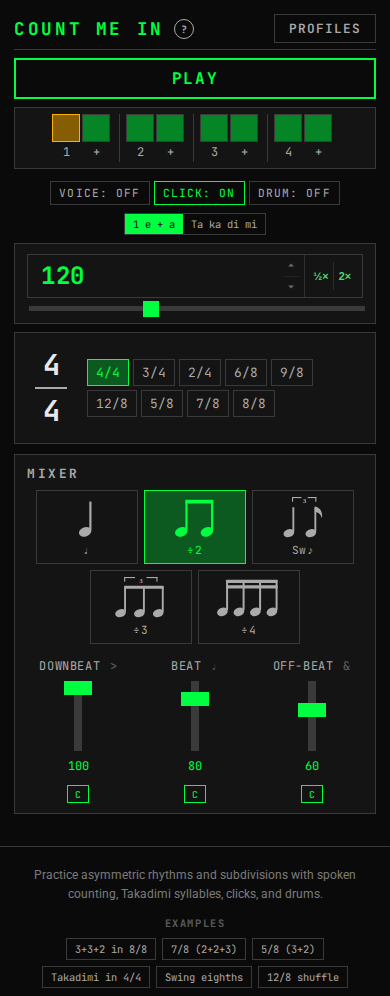
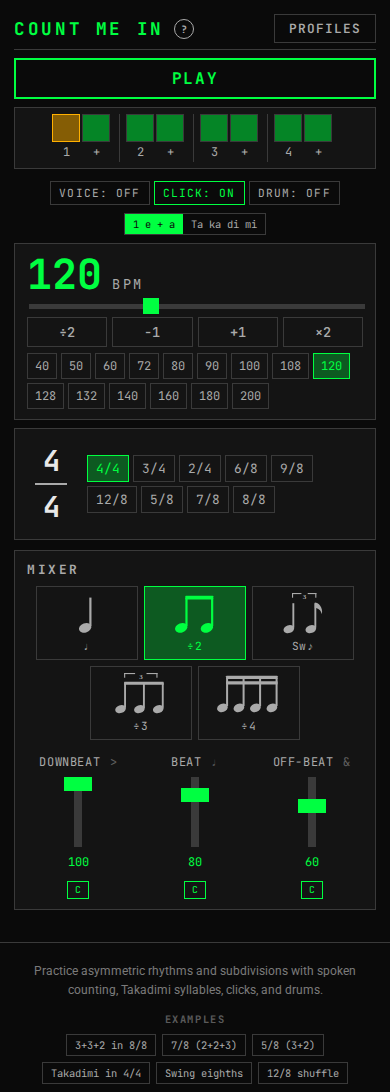
fix(count): restore first-class BPM control with visible presets (#65)
* fix(count): restore first-class BPM control with visible presets

Shared BpmInput buried common tempos in a dropdown and broke Count’s
metronome CUJ. Bring back always-visible slider, ±1/÷2/×2, and preset chips,
and guard against re-adopting the portable toolbar control.

* test(visual): refresh count baselines for first-class BPM control

- count-desktop.png — T2.1 intentional UI: restore always-visible presets/±1/÷2×2
- count-mobile.png — T2.1 same; taller viewport from expanded tempo chrome

---------

diff --git a/src/count/styles/pulse.css b/src/count/styles/pulse.css
@@ -171,39 +171,53 @@ body {
   gap: 8px;
 }
 
-/* Shared BpmInput themed to the pulse terminal aesthetic via its CSS tokens. */
-.count-bpm-input .shared-bpm-shell {
-  --bpm-bg: var(--pulse-surface);
-  --bpm-border: var(--pulse-border);
-  --bpm-text: var(--pulse-accent);
-  --bpm-muted: var(--pulse-text-dim);
-  --bpm-focus: var(--pulse-accent);
-  /* The shared inset ring token resolves against the light theme at :root, so
-     re-compose it here with the pulse accent. */
-  --bpm-focus-ring: inset 0 0 0 2px
-    color-mix(in srgb, var(--pulse-accent) 55%, transparent);
-  --bpm-hover: var(--pulse-accent-dim);
-  --bpm-shell-radius: 0;
-  --music-timing-value-font-size: 1.5rem;
-  font-family: var(--pulse-mono);
+.pulse-bpm-top {
+  display: flex;
+  align-items: baseline;
+  gap: 10px;
 }
 
-.count-bpm-dropdown {
-  --labs-popover-bg: var(--pulse-surface);
-  --labs-popover-border: 1px solid var(--pulse-border);
-  --labs-popover-radius: 0;
-  --labs-popover-shadow: 0 8px 24px rgba(0, 0, 0, 0.6);
-  --bpm-dropdown-bg: var(--pulse-surface);
-  --bpm-dropdown-border: var(--pulse-border);
-  --bpm-text: var(--pulse-text);
-  --bpm-muted: var(--pulse-text-dim);
-  --bpm-focus: var(--pulse-accent);
-  --bpm-chip-radius: 0;
+.pulse-bpm-display {
   font-family: var(--pulse-mono);
+  font-size: 2.6rem;
+  font-weight: 700;
+  color: var(--pulse-accent);
+  line-height: 1;
+  background: none;
+  border: none;
+  cursor: text;
+  padding: 0;
 }
 
-.count-bpm-dropdown .shared-bpm-slider-wrap {
-  border-radius: 0;
+.pulse-bpm-input {
+  font-family: var(--pulse-mono);
+  font-size: 2.6rem;
+  font-weight: 700;
+  color: var(--pulse-accent);
+  background: var(--pulse-bg);
+  border: 1px solid var(--pulse-accent);
+  width: 100px;
+  padding: 0 6px;
+  line-height: 1;
+}
+.pulse-bpm-input:focus-visible {
+  outline: 2px solid var(--pulse-accent);
+  outline-offset: 2px;
+}
+.pulse-bpm-input::-webkit-inner-spin-button,
+.pulse-bpm-input::-webkit-outer-spin-button {
+  -webkit-appearance: none;
+  margin: 0;
+}
+.pulse-bpm-input {
+  -moz-appearance: textfield;
+}
+
+.pulse-bpm-label {
+  font-family: var(--pulse-mono);
+  font-size: 0.85rem;
+  letter-spacing: 0.2em;
+  color: var(--pulse-text-dim);
 }
 
 .pulse-tempo-marking {
@@ -243,6 +257,53 @@ body {
   background: var(--pulse-accent);
   border: none;
   cursor: pointer;
+}
+
+.pulse-bpm-actions {
+  display: flex;
+  gap: 5px;
+}
+
+.pulse-bpm-btn {
+  font-family: var(--pulse-mono);
+  font-size: 0.85rem;
+  font-weight: 500;
+  padding: 5px 12px;
+  border: 1px solid var(--pulse-border);
+  background: transparent;
+  color: var(--pulse-text-dim);
+  cursor: pointer;
+  flex: 1;
+  text-align: center;
+}
+.pulse-bpm-btn:hover {
+  border-color: var(--pulse-accent);
+  color: var(--pulse-accent);
+}
+
+.pulse-bpm-presets {
+  display: flex;
+  flex-wrap: wrap;
+  gap: 4px;
+}
+
+.pulse-bpm-preset {
+  font-family: var(--pulse-mono);
+  font-size: 0.75rem;
+  padding: 4px 7px;
+  border: 1px solid var(--pulse-border);
+  background: transparent;
+  color: var(--pulse-text-dim);
+  cursor: pointer;
+}
+.pulse-bpm-preset:hover {
+  border-color: var(--pulse-accent);
+  color: var(--pulse-accent);
+}
+.pulse-bpm-preset.is-active {
+  border-color: var(--pulse-accent);
+  background: var(--pulse-accent-dim);
+  color: var(--pulse-accent);
 }
 
 /* ---- Time Signature ---- */

diff --git a/src/count/components/BpmControl.tsx b/src/count/components/BpmControl.tsx
@@ -1,5 +1,5 @@
-import { useCallback } from 'react';
-import BpmInput from '../../shared/components/music/BpmInput';
+import { useState, useCallback, useRef, useEffect } from 'react';
+import { COMMON_BPMS } from '../../shared/music/musicInputConstants';
 
 interface BpmControlProps {
   bpm: number;
@@ -8,6 +8,36 @@ interface BpmControlProps {
 
 const MIN_BPM = 20;
 const MAX_BPM = 300;
+
+const REPEAT_DELAY = 400;
+const REPEAT_INTERVAL = 80;
+
+function useRepeatPress(callback: () => void) {
+  const timerRef = useRef<ReturnType<typeof setTimeout> | null>(null);
+  const intervalRef = useRef<ReturnType<typeof setInterval> | null>(null);
+  const cbRef = useRef(callback);
+  cbRef.current = callback;
+
+  const stop = useCallback(() => {
+    if (timerRef.current) { clearTimeout(timerRef.current); timerRef.current = null; }
+    if (intervalRef.current) { clearInterval(intervalRef.current); intervalRef.current = null; }
+  }, []);
+
+  useEffect(() => stop, [stop]);
+
+  const start = useCallback(() => {
+    stop();
+    timerRef.current = setTimeout(() => {
+      intervalRef.current = setInterval(() => cbRef.current(), REPEAT_INTERVAL);
+    }, REPEAT_DELAY);
+  }, [stop]);
+
+  return {
+    onPointerDown: start,
+    onPointerUp: stop,
+    onPointerLeave: stop,
+  };
+}
 
 const TEMPO_MARKINGS: Array<{ min: number; max: number; italian: string; english: string }> = [
   { min: 0,   max: 40,  italian: 'Larghissimo', english: 'Very broad' },
@@ -28,14 +58,16 @@ function getTempoMarking(bpm: number): { italian: string; english: string } {
 }
 
 function clamp(v: number) {
-  return Math.max(MIN_BPM, Math.min(MAX_BPM, Math.round(v)));
+  return Math.max(MIN_BPM, Math.min(MAX_BPM, Math.round(v * 10) / 10));
 }
 
-/**
- * Count's tempo panel — tempo-marking caption + shared BpmInput stepper, with an
- * always-visible slider for live tempo sweeps while practicing.
- */
 export function BpmControl({ bpm, onChange }: BpmControlProps) {
+  const [editing, setEditing] = useState(false);
+  const [editValue, setEditValue] = useState('');
+
+  const bpmRef = useRef(bpm);
+  bpmRef.current = bpm;
+
   const handleSlider = useCallback(
     (e: React.ChangeEvent<HTMLInputElement>) => {
       onChange(clamp(parseFloat(e.target.value)));
@@ -43,20 +75,52 @@ export function BpmControl({ bpm, onChange }: BpmControlProps) {
     [onChange],
   );
 
+  const decRepeat = useRepeatPress(useCallback(() => onChange(clamp(bpmRef.current - 1)), [onChange]));
+  const incRepeat = useRepeatPress(useCallback(() => onChange(clamp(bpmRef.current + 1)), [onChange]));
+
+  const startEdit = () => {
+    setEditValue(String(Math.round(bpm)));
+    setEditing(true);
+  };
+
+  const commitEdit = () => {
+    setEditing(false);
+    const parsed = parseFloat(editValue);
+    if (!isNaN(parsed)) onChange(clamp(parsed));
+  };
+
   return (
     <div className="pulse-bpm">
       <div className="pulse-tempo-marking" title={getTempoMarking(bpm).english}>
         {getTempoMarking(bpm).italian}
       </div>
-
-      <BpmInput
-        value={bpm}
-        onChange={(next) => onChange(clamp(next))}
-        min={MIN_BPM}
-        max={MAX_BPM}
-        className="count-bpm-input"
-        dropdownClassName="count-bpm-dropdown"
-      />
+      <div className="pulse-bpm-top">
+        {editing ? (
+          <input
+            className="pulse-bpm-input"
+            type="number"
+            value={editValue}
+            onChange={(e) => setEditValue(e.target.value)}
+            onBlur={commitEdit}
+            onKeyDown={(e) => e.key === 'Enter' && commitEdit()}
+            min={MIN_BPM}
+            max={MAX_BPM}
+            // eslint-disable-next-line jsx-a11y/no-autofocus
+            autoFocus
+            aria-label="BPM value"
+          />
+        ) : (
+          <button
+            className="pulse-bpm-display"
+            onClick={startEdit}
+            title="Click to type a BPM"
+            type="button"
+          >
+            {bpm.toFixed(0)}
+          </button>
+        )}
+        <span className="pulse-bpm-label">BPM</span>
+      </div>
 
       <input
         type="range"
@@ -68,6 +132,26 @@ export function BpmControl({ bpm, onChange }: BpmControlProps) {
         onChange={handleSlider}
         aria-label="BPM slider"
       />
+
+      <div className="pulse-bpm-actions">
+        <button className="pulse-bpm-btn" onClick={() => onChange(clamp(bpm / 2))} type="button" title="Halve BPM">÷2</button>
+        <button className="pulse-bpm-btn" onClick={() => onChange(clamp(bpm - 1))} {...decRepeat} type="button" title="Decrease by 1 (hold to repeat)">−1</button>
+        <button className="pulse-bpm-btn" onClick={() => onChange(clamp(bpm + 1))} {...incRepeat} type="button" title="Increase by 1 (hold to repeat)">+1</button>
+        <button className="pulse-bpm-btn" onClick={() => onChange(clamp(bpm * 2))} type="button" title="Double BPM">×2</button>
+      </div>
+
+      <div className="pulse-bpm-presets">
+        {COMMON_BPMS.map((v) => (
+          <button
+            key={v}
+            className={`pulse-bpm-preset ${bpm === v ? 'is-active' : ''}`}
+            onClick={() => onChange(v)}
+            type="button"
+          >
+            {v}
+          </button>
+        ))}
+      </div>
     </div>
   );
 }

diff --git a/src/count/components/BpmControl.firstClass.test.ts b/src/count/components/BpmControl.firstClass.test.ts
@@ -1,0 +1,23 @@
+import { readFileSync } from 'node:fs';
+import path from 'node:path';
+import { describe, expect, it } from 'vitest';
+
+/**
+ * Guard: Count's tempo surface is a first-class CUJ, not the portable BpmInput
+ * toolbar excerpt. See README § Intentional diversions and
+ * SHARED_UI_CONVENTIONS § First-class vs portable.
+ */
+describe('BpmControl first-class tempo surface', () => {
+  const source = readFileSync(path.join(__dirname, 'BpmControl.tsx'), 'utf8');
+
+  it('does not import shared BpmInput', () => {
+    expect(source).not.toMatch(/from ['"].*BpmInput['"]/);
+  });
+
+  it('keeps always-visible common BPM presets and nudge actions', () => {
+    expect(source).toMatch(/COMMON_BPMS/);
+    expect(source).toMatch(/pulse-bpm-presets/);
+    expect(source).toMatch(/÷2/);
+    expect(source).toMatch(/×2/);
+  });
+});

diff --git a/src/count/App.test.tsx b/src/count/App.test.tsx
@@ -127,8 +127,9 @@ describe('Count App engine wiring', () => {
     render(<App />);
     await startPlayback();
 
-    const bpmInput = screen.getByRole('textbox', { name: 'Tempo in BPM' });
-    fireEvent.focus(bpmInput);
+    // Count uses a first-class BPM control (display → edit), not shared BpmInput.
+    fireEvent.click(screen.getByTitle('Click to type a BPM'));
+    const bpmInput = screen.getByRole('spinbutton', { name: 'BPM value' });
     fireEvent.change(bpmInput, { target: { value: '95' } });
     fireEvent.keyDown(bpmInput, { key: 'Enter' });
 
@@ -137,6 +138,19 @@ describe('Count App engine wiring', () => {
       expect(tempoCalls.length).toBeGreaterThan(0);
       expect(tempoCalls[tempoCalls.length - 1].args).toEqual([95]);
     });
+  });
+
+  it('exposes always-visible common BPM presets (not a BpmInput dropdown)', async () => {
+    render(<App />);
+    await startPlayback();
+    // COMMON_BPMS chips must be in the document without opening a menu.
+    fireEvent.click(screen.getByRole('button', { name: '80' }));
+    await waitFor(() => {
+      const tempoCalls = callsFor('setTempo');
+      expect(tempoCalls.at(-1)?.args).toEqual([80]);
+    });
+    expect(screen.getByRole('button', { name: '÷2' })).toBeInTheDocument();
+    expect(screen.getByRole('slider', { name: 'BPM slider' })).toBeInTheDocument();
   });
 
   it('time-signature preset forwards to engine.setTimeSignature', async () => {

diff --git a/src/count/README.md b/src/count/README.md
@@ -9,9 +9,18 @@ Route: `/count/`.
 ## Features
 
 - **Subdivision selection** — pick a grid (quarters, eighths, triplets, sixteenths, etc.) and hear it mapped to a click track.
-- **Tempo slider** — audio-scheduled clicks stay tight via the shared playback scheduler.
+- **Tempo slider** — always-visible Count `BpmControl` (not compact shared `BpmInput`); audio-scheduled clicks stay tight via the shared playback scheduler.
 - **Pulse visualizer** — a styled beat ring under `styles/pulse.css` indicates the current subdivision; designed for peripheral-vision practice while playing an instrument.
 - **Shared transport** — reuses `src/shared/playback/` so tempo, play/pause, and suspension behavior match Beat and Piano.
+
+## Intentional diversions
+
+| Surface             | Shared alternative                            | Why Count keeps its own                                                                                                                                                                    |
+| ------------------- | --------------------------------------------- | ------------------------------------------------------------------------------------------------------------------------------------------------------------------------------------------ |
+| Tempo               | `BpmInput` (portable toolbar field + menu)    | Metronome practice needs **immediate** BPM editing — slider, ±1 hold-repeat, ÷2/×2, common presets, and tempo marking — with **no menu** hiding the input. Portability is not a goal here. |
+| Channel mixer gains | `AppLinearVolumeSlider` / `PlaybackVolumeRow` | Subdivision mixer is a dense first-class mix grid (per-channel V/C/D mutes + hierarchy labels). Keep native pulse styling unless product asks to restyle.                                  |
+
+Do **not** “adopt shared BpmInput for consistency” without an explicit product decision. See [`SHARED_UI_CONVENTIONS.md`](../shared/SHARED_UI_CONVENTIONS.md) § First-class vs portable.
 
 ## Architecture
 

diff --git a/src/count/ARCHITECTURE.md b/src/count/ARCHITECTURE.md
@@ -73,6 +73,10 @@ The mixer relabels channels using metric hierarchy names (DOWNBEAT, BEAT, OFF-BE
 
 Root component managing all state. Passes gain values and mute sets down to both the engine (for audio) and the mixer/beat display (for visual state).
 
+### BpmControl (intentional diversion)
+
+Count owns a **first-class** tempo UI in `components/BpmControl.tsx` + `.pulse-bpm*` in `styles/pulse.css`. It must stay always-visible (large display, range slider, ±1 / ÷2 / ×2, common BPM chips, Italian tempo marking). Do **not** replace with shared `BpmInput` — that control is the portable toolbar excerpt for other apps. Documented also in `README.md` § Intentional diversions.
+
 ### BeatDisplay
 
 Shows one box per grid slot, grouped by beat grouping. Supports click-to-mute per box. For swing8, all three triplet positions are shown (1, +, a) with the middle "+" rendered as a non-interactive muted cell to visually convey the silent beat.